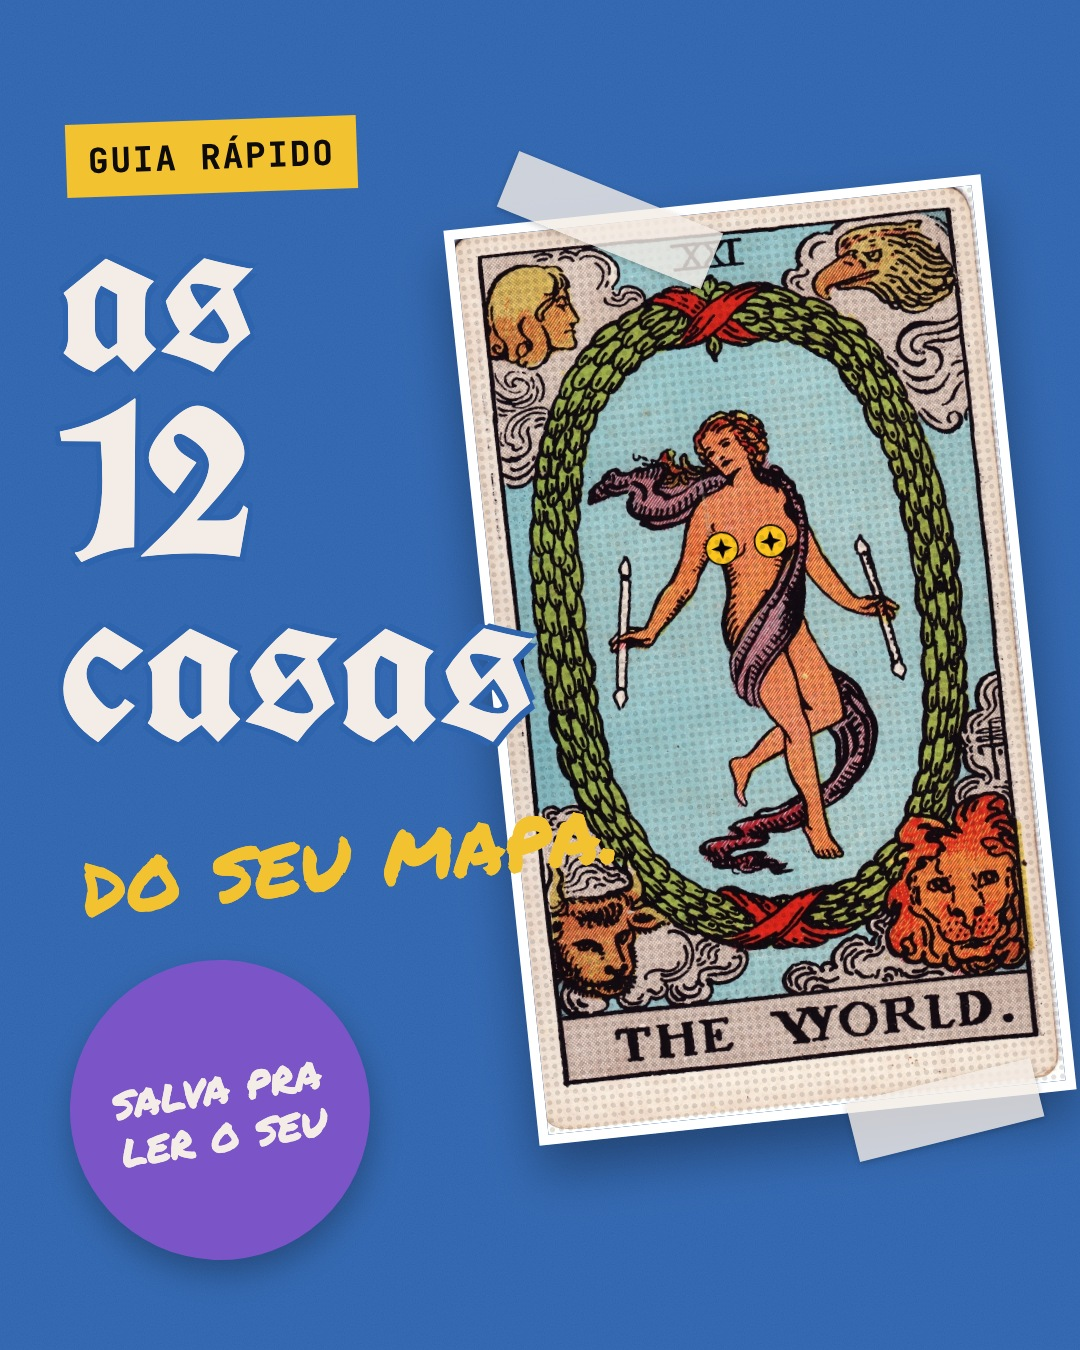
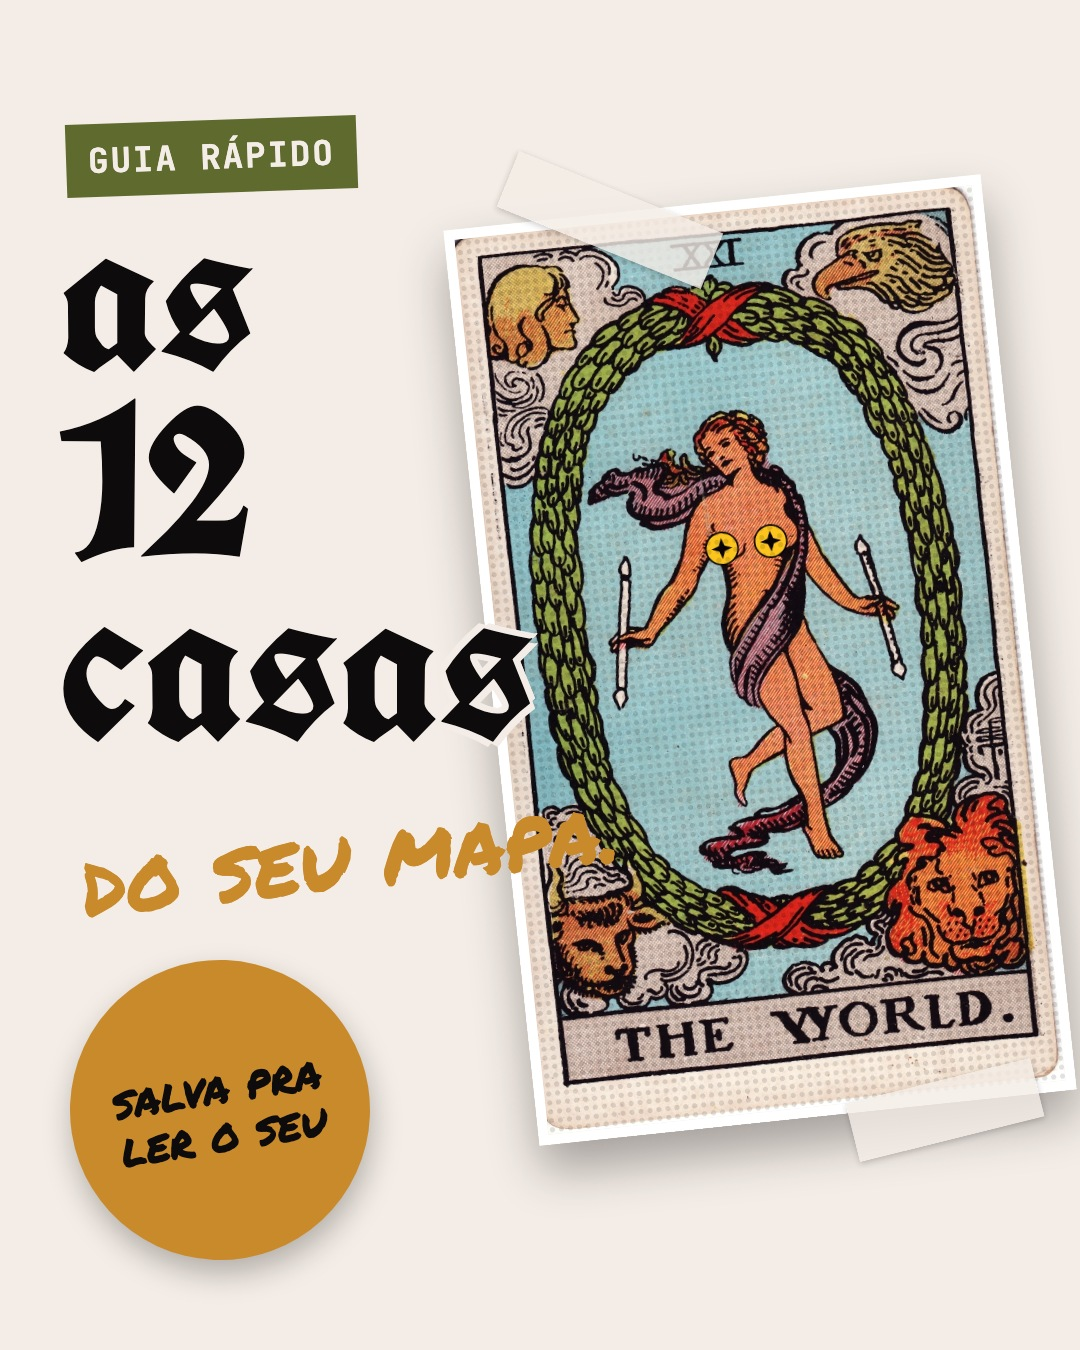
12 casas na paleta de terra (azul/roxo/amarelo ficam pro horóscopo)
Claude-Session: https://claude.ai/code/session_01Kyw7354tSvSQrcFLzxvqxY

diff --git a/board.py b/board.py
@@ -1,0 +1,77 @@
+"""Gera board.html: todos os posts da fila, por dia, com todos os slides,
+legenda e a simulação da grade do perfil. Abre direto no navegador.
+
+  python3 board.py            → board.html (e abre)
+  python3 board.py --extra DIR:ID:QUANDO   inclui um post ainda fora da fila (ex.: aguardando aprovação)
+"""
+import datetime as dt
+import html
+import json
+import pathlib
+import subprocess
+import sys
+
+AQUI = pathlib.Path(__file__).parent
+DIAS = ["seg", "ter", "qua", "qui", "sex", "sáb", "dom"]
+
+fila = json.loads((AQUI / "fila.json").read_text(encoding="utf-8"))
+for x in fila:
+    x["imgs"] = [f"midia/{i}" for i in x["imagens"]]
+    x["status"] = "agendado"
+
+for arg in sys.argv[1:]:
+    if arg.startswith("--extra="):
+        pasta, pid, quando = arg.split("=", 1)[1].split("|")
+        d = pathlib.Path(pasta).expanduser()
+        imgs = sorted(str(f) for f in d.glob("*-0*.jpg"))
+        leg = next(iter(d.glob("LEGENDA*.txt")), None)
+        fila.append({"id": pid, "quando": quando, "imgs": [pathlib.Path(i).as_uri() for i in imgs],
+                     "legenda": leg.read_text(encoding="utf-8") if leg else "", "status": "aguardando aprovação"})
+fila.sort(key=lambda x: x["quando"])
+
+# grade do perfil: o mais novo em cima, capa de cada post (corte 3:4 feito no CSS)
+grade = "".join(f'<div class="g"><img src="{x["imgs"][0]}"><span>{x["quando"][8:10]}/{x["quando"][5:7]}</span></div>'
+                for x in reversed(fila))
+
+dias = {}
+for x in fila:
+    dias.setdefault(x["quando"][:10], []).append(x)
+blocos = ""
+for dia, posts in dias.items():
+    d = dt.date.fromisoformat(dia)
+    cards = ""
+    for x in posts:
+        slides = "".join(f'<img src="{s}" loading="lazy">' for s in x["imgs"])
+        tag = "" if x["status"] == "agendado" else f'<b class="st">{x["status"]}</b>'
+        cards += (f'<article><header><time>{x["quando"][11:16]}</time><h3>{html.escape(x["id"])}</h3>{tag}'
+                  f'<small>{len(x["imgs"])} slide{"s" if len(x["imgs"]) > 1 else ""}</small></header>'
+                  f'<div class="slides">{slides}</div>'
+                  f'<details><summary>legenda</summary><pre>{html.escape(x["legenda"])}</pre></details></article>')
+    blocos += f'<section><h2>{DIAS[d.weekday()]} {d.day:02d}/{d.month:02d}</h2>{cards}</section>'
+
+agora = dt.datetime.now().strftime("%d/%m %H:%M")
+(AQUI / "board.html").write_text(f"""<!doctype html><html lang="pt-BR"><meta charset="utf-8">
+<meta name="viewport" content="width=device-width,initial-scale=1"><title>Agenda do Instagram</title>
+<style>
+:root{{--bg:#F4ECE6;--ink:#0D0B0C;--mut:#6b625c;--card:#fff;--red:#C8322B}}
+@media (prefers-color-scheme:dark){{:root{{--bg:#141213;--ink:#F4ECE6;--mut:#a39a93;--card:#1e1b1c}}}}
+*{{box-sizing:border-box}} body{{margin:0;background:var(--bg);color:var(--ink);font:15px/1.4 -apple-system,Inter,sans-serif}}
+main{{max-width:1200px;margin:0 auto;padding:24px 16px 80px}}
+h1{{font-size:28px;margin:0 0 4px}} .sub{{color:var(--mut);margin:0 0 24px}}
+.grade{{display:grid;grid-template-columns:repeat(3,1fr);gap:3px;max-width:420px;margin:0 0 36px}}
+.g{{position:relative;aspect-ratio:3/4;overflow:hidden;background:#000}} .g img{{width:100%;height:100%;object-fit:cover}}
+.g span{{position:absolute;left:6px;bottom:6px;background:#000a;color:#fff;font-size:11px;padding:2px 6px;border-radius:4px}}
+section{{margin:0 0 32px}} h2{{font-size:18px;text-transform:uppercase;letter-spacing:.06em;border-bottom:2px solid var(--ink);padding-bottom:6px}}
+article{{background:var(--card);border-radius:12px;padding:14px;margin:12px 0;box-shadow:0 2px 10px #0001}}
+header{{display:flex;flex-wrap:wrap;gap:10px;align-items:baseline;margin-bottom:10px}}
+time{{font:700 20px ui-monospace,monospace}} h3{{margin:0;font-size:15px}} small{{color:var(--mut)}}
+.st{{background:var(--red);color:#fff;font-size:12px;padding:2px 8px;border-radius:99px}}
+.slides{{display:flex;gap:8px;overflow-x:auto;padding-bottom:6px;scroll-snap-type:x mandatory}}
+.slides img{{height:300px;aspect-ratio:4/5;object-fit:cover;border-radius:6px;scroll-snap-align:start;flex:none}}
+@media (max-width:600px){{.slides img{{height:220px}}}}
+pre{{white-space:pre-wrap;font:14px/1.45 -apple-system,Inter,sans-serif;margin:8px 0 0}}
+summary{{cursor:pointer;color:var(--mut)}}
+</style><main><h1>Agenda do Instagram</h1>
+<p class="sub">@myastrologica_ · {len(fila)} posts · gerado em {agora}. Em cima, como a grade do perfil vai ficar (o mais novo primeiro).</p>
+<div class="grade">{grade}</div>{blocos}</main></html>""", encoding="utf-8")
+print(AQUI / "board.html")
